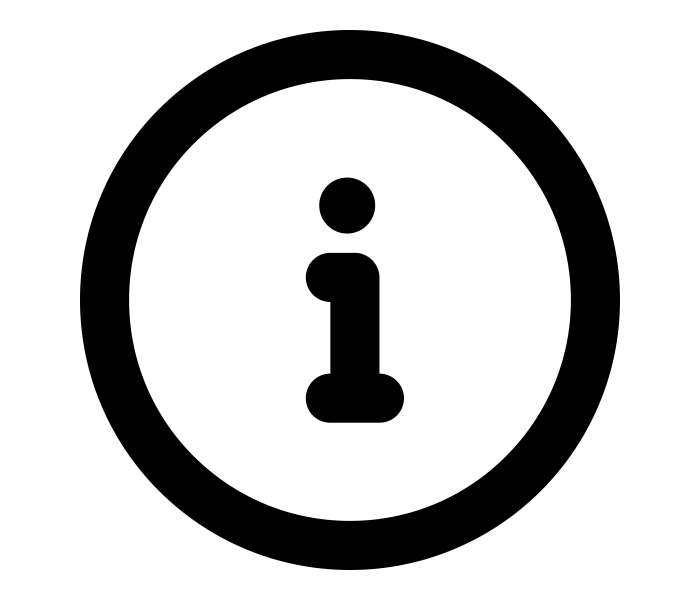
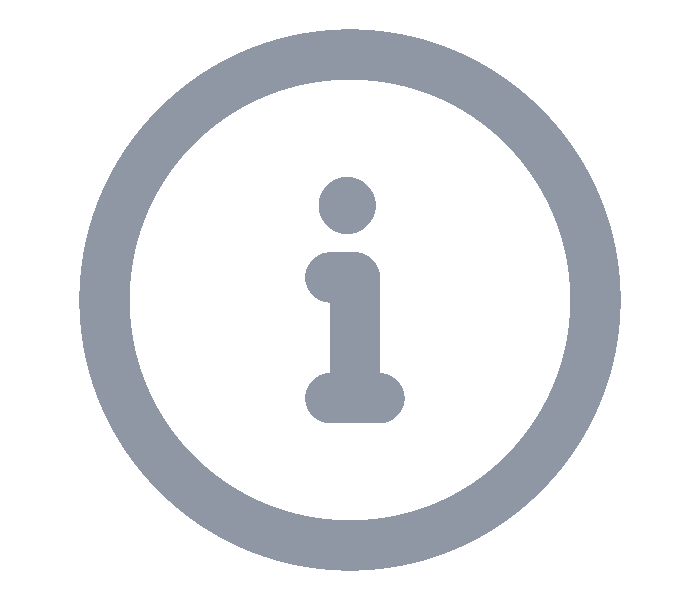
course info done

Changed region(s): [[0.0909, 0.0305, 0.9091, 0.9746], [0.4242, 0.4264, 0.6061, 0.731], [0.4545, 0.2741, 0.5455, 0.3959]]

diff --git a/style.css b/style.css
@@ -190,7 +190,7 @@
   .schedule1{
     background-color: #FFFFFF;
     width: 440px;
-    height: 515px;
+    height: 755px;
     border-radius: 10px;
     border: 1px solid #ECECF1;
   }
@@ -243,6 +243,12 @@
     align-content: center;
   }
 
+  .info-icon{
+    color: #9097A4;
+    height: 17px;
+    margin-left: 200px;
+  }
+
   p{
     font-family: sofiapro-light;
     font-weight: 300;
@@ -286,4 +292,42 @@
   .right-info{
     align-content: center;
     margin-top: 30px;
+  }
+
+  .course{
+    width: 386px;
+    height: 90px;
+    border: 1px solid #ECECF1;
+    border-radius: 10px;
+    box-shadow: 0px 10px 20px rgba(0,0,0,0.1);
+    margin: 20px;
+  }
+
+  .easy{
+    border-left:  12px solid #11A958;
+  }
+
+  .course-info{
+    margin-left: 20px;
+    margin-top: 6px;
+  }
+
+  .course-code{
+    font-family: sofiapro-reg;
+    font-size: 24px;
+    margin-top: 0px;
+    margin-bottom: 0px;
+  }
+
+  .course-name{
+    font-family: sofiapro-light;
+    font-size: 18px;
+    margin-top: 1px;
+    margin-bottom: 0px;
+  }
+
+  .hours{
+    color: #9097A4;
+    font-size: 18px;
+    margin-top: 1px;
   }

diff --git a/index.html b/index.html
@@ -47,7 +47,23 @@
                         </div>
                     </div>
                     <div class="courses">
-                        <div class="course">
+                        <div class="course easy">
+                            <div class="course-info">
+                                <p class="course-code">ECON 2305 <img class="info-icon" src=icons/information.png></p>
+                                <p class="course-name">Principles of Macroeconomics</p>
+                                <p class="hours">3 hours</p> 
+                            </div>
+                        </div>
+                        <div class="course easy">
+
+                        </div>
+                        <div class="course easy">
+
+                        </div>
+                        <div class="course easy">
+
+                        </div>
+                        <div class="course easy">
 
                         </div>
                     </div>
